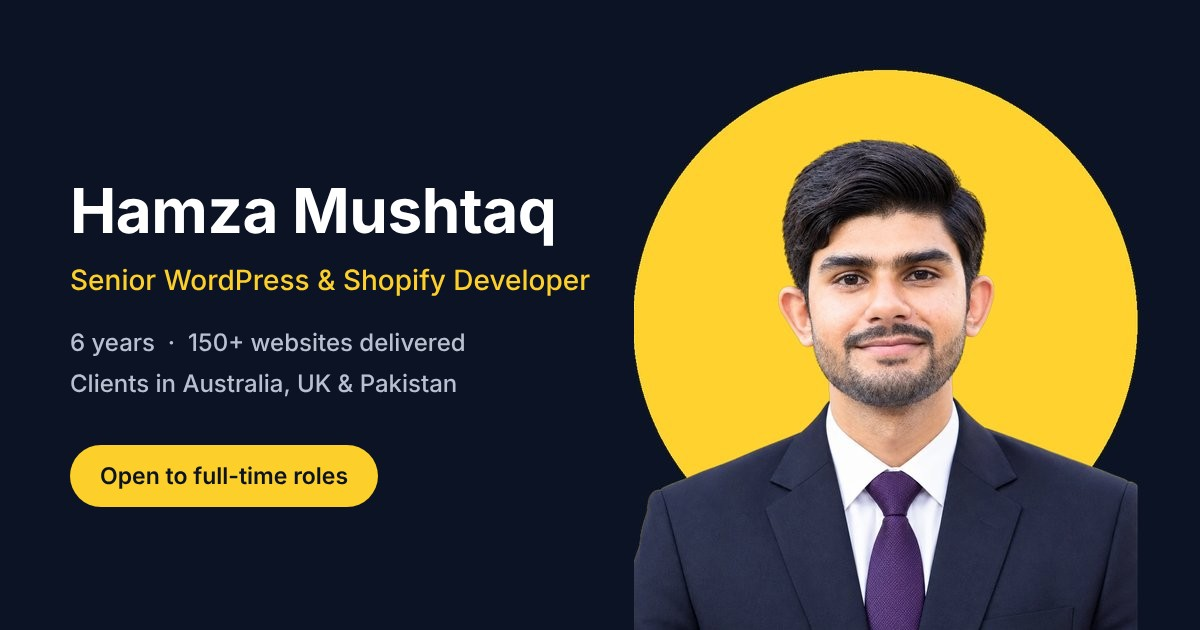
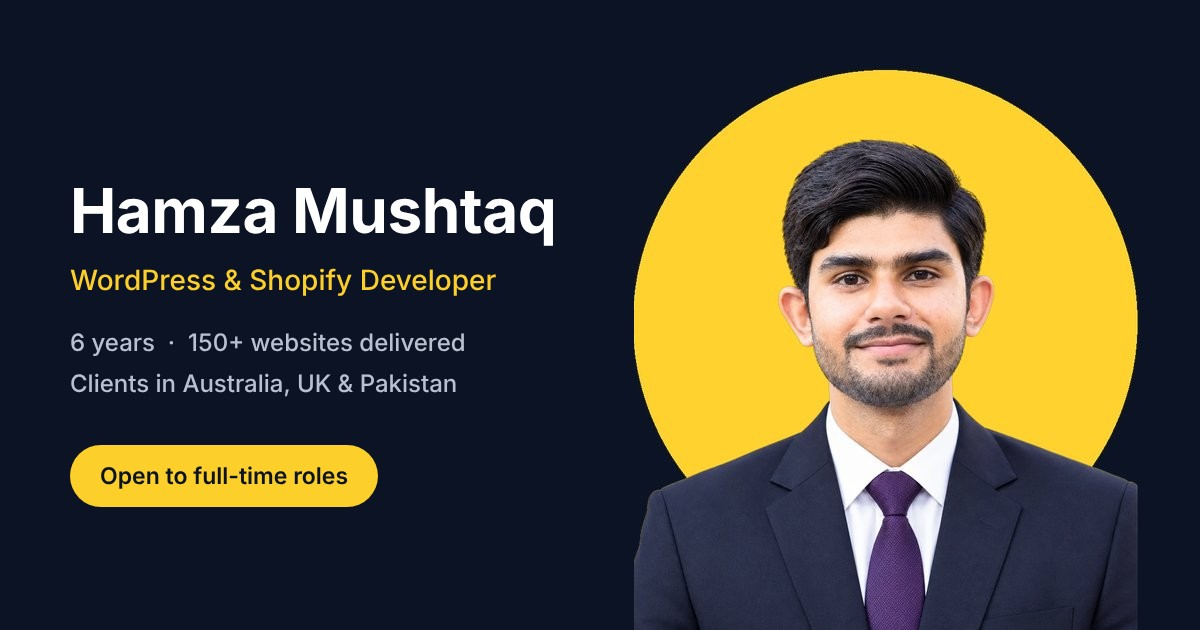
Remove 'Senior' from title, meta, hero, footer, schema and share image
Claude-Session: https://claude.ai/code/session_018FYhQwKR2udrmDeXMSJ7m5

Changed region(s): [[0.0617, 0.4222, 0.4933, 0.4825]]

diff --git a/index.html b/index.html
@@ -3,8 +3,8 @@
 <head>
 <meta charset="utf-8">
 <meta name="viewport" content="width=device-width, initial-scale=1">
-<title>Hamza Mushtaq | Senior WordPress & Shopify Developer</title>
-<meta name="description" content="Hamza Mushtaq is a Senior WordPress & Shopify developer in Islamabad with 6 years of experience and 150+ websites delivered. Open to full-time roles.">
+<title>Hamza Mushtaq | WordPress & Shopify Developer</title>
+<meta name="description" content="Hamza Mushtaq is a WordPress & Shopify developer in Islamabad with 6 years of experience and 150+ websites delivered. Open to full-time roles.">
 <meta name="author" content="Hamza Mushtaq">
 <link rel="canonical" href="https://hamzamushtaq-dev.github.io/">
 <meta name="google-site-verification" content="k11U1oFUgGxHjwd6RS69xaR4Mff1UDgWmx-Qb4VeeUU" />
@@ -12,17 +12,17 @@
 <meta property="og:type" content="website">
 <meta property="og:site_name" content="Hamza Mushtaq">
 <meta property="og:locale" content="en_US">
-<meta property="og:title" content="Hamza Mushtaq | Senior WordPress & Shopify Developer">
-<meta property="og:description" content="Senior WordPress & Shopify developer with 6 years of experience and 150+ websites and online stores delivered.">
+<meta property="og:title" content="Hamza Mushtaq | WordPress & Shopify Developer">
+<meta property="og:description" content="WordPress & Shopify developer with 6 years of experience and 150+ websites and online stores delivered.">
 <meta property="og:url" content="https://hamzamushtaq-dev.github.io/">
-<meta property="og:image" content="https://hamzamushtaq-dev.github.io/assets/og-image.jpg?v=3">
+<meta property="og:image" content="https://hamzamushtaq-dev.github.io/assets/og-image.jpg?v=4">
 <meta property="og:image:width" content="1200">
 <meta property="og:image:height" content="630">
-<meta property="og:image:alt" content="Hamza Mushtaq, Senior WordPress & Shopify Developer">
+<meta property="og:image:alt" content="Hamza Mushtaq, WordPress & Shopify Developer">
 <meta name="twitter:card" content="summary_large_image">
-<meta name="twitter:title" content="Hamza Mushtaq | Senior WordPress & Shopify Developer">
-<meta name="twitter:description" content="Senior WordPress & Shopify developer with 6 years of experience and 150+ websites delivered.">
-<meta name="twitter:image" content="https://hamzamushtaq-dev.github.io/assets/og-image.jpg?v=3">
+<meta name="twitter:title" content="Hamza Mushtaq | WordPress & Shopify Developer">
+<meta name="twitter:description" content="WordPress & Shopify developer with 6 years of experience and 150+ websites delivered.">
+<meta name="twitter:image" content="https://hamzamushtaq-dev.github.io/assets/og-image.jpg?v=4">
 <meta name="theme-color" content="#0B1324">
 <link rel="icon" href="favicon.ico?v=6" sizes="any">
 <link rel="icon" href="assets/favicon-32.png?v=6" type="image/png" sizes="32x32">
@@ -34,7 +34,7 @@
 <link rel="stylesheet" href="style.css">
 <script>try{var t=localStorage.getItem('theme');if(t)document.documentElement.dataset.theme=t;}catch(e){}</script>
 <script type="application/ld+json">
-{"@context":"https://schema.org","@type":"Person","name":"Hamza Mushtaq","jobTitle":"Senior WordPress & Shopify Developer","image":"https://hamzamushtaq-dev.github.io/assets/hamza-avatar.jpg","url":"https://hamzamushtaq-dev.github.io/","email":"mailto:hm136890@gmail.com","telephone":"+923125705808","address":{"@type":"PostalAddress","addressLocality":"Islamabad","addressCountry":"PK"},"worksFor":{"@type":"Organization","name":"CodeAge Pvt Ltd"},"sameAs":["https://www.linkedin.com/in/hamzamushtaq-dev"],"alumniOf":{"@type":"CollegeOrUniversity","name":"PMAS Arid Agriculture University, Rawalpindi"},"knowsAbout":["WordPress","Shopify","WooCommerce","Elementor","Divi","Figma to WordPress","Website Speed Optimization","Team Leadership"],"description":"Senior WordPress & Shopify developer with 6 years of experience and 150+ websites delivered."}
+{"@context":"https://schema.org","@type":"Person","name":"Hamza Mushtaq","jobTitle":"WordPress & Shopify Developer","image":"https://hamzamushtaq-dev.github.io/assets/hamza-avatar.jpg","url":"https://hamzamushtaq-dev.github.io/","email":"mailto:hm136890@gmail.com","telephone":"+923125705808","address":{"@type":"PostalAddress","addressLocality":"Islamabad","addressCountry":"PK"},"worksFor":{"@type":"Organization","name":"CodeAge Pvt Ltd"},"sameAs":["https://www.linkedin.com/in/hamzamushtaq-dev"],"alumniOf":{"@type":"CollegeOrUniversity","name":"PMAS Arid Agriculture University, Rawalpindi"},"knowsAbout":["WordPress","Shopify","WooCommerce","Elementor","Divi","Figma to WordPress","Website Speed Optimization","Team Leadership"],"description":"WordPress & Shopify developer with 6 years of experience and 150+ websites delivered."}
 </script>
 </head>
 <body>
@@ -95,7 +95,7 @@
       <div class="hero-copy reveal">
         <p class="status"><span class="pulse"></span> Open to full-time roles</p>
         <h1>I build WordPress &amp; Shopify websites from <span class="mark">scratch to launch</span>.</h1>
-        <p class="lead">I'm Hamza, a Senior WordPress &amp; Shopify Developer with 6 years of experience, currently leading a development team at CodeAge. I've built fast, fully responsive websites and online stores for clients in Australia, the UK and Pakistan.</p>
+        <p class="lead">I'm Hamza, a WordPress &amp; Shopify Developer with 6 years of experience, currently leading a development team at CodeAge. I've built fast, fully responsive websites and online stores for clients in Australia, the UK and Pakistan.</p>
         <div class="cta-row">
           <a href="#contact" class="btn btn-primary">Hire Me</a>
           <a href="assets/Hamza-Mushtaq-CV.pdf" class="btn btn-outline" target="_blank" rel="noopener"><svg class="ico"><use href="#i-download"/></svg>Download CV</a>
@@ -507,7 +507,7 @@
   <div class="wrap footer-inner">
     <div>
       <a href="#" class="logo js-top"><span class="logo-text">Hamza Mushtaq</span></a>
-      <p>Senior WordPress &amp; Shopify Developer. Open to full-time roles.</p>
+      <p>WordPress &amp; Shopify Developer. Open to full-time roles.</p>
     </div>
     <nav aria-label="Footer">
       <a href="#about">About</a><a href="#services">What I Do</a><a href="#work">Work</a><a href="assets/Hamza-Mushtaq-CV.pdf" target="_blank" rel="noopener">CV</a><a href="#contact">Contact</a>

diff --git a/README.md b/README.md
@@ -1,6 +1,6 @@
 # Hamza Mushtaq — Portfolio
 
-Personal portfolio website of Hamza Mushtaq, Senior WordPress & Shopify Developer.
+Personal portfolio website of Hamza Mushtaq, WordPress & Shopify Developer.
 
 Live: https://hamzamushtaq-dev.github.io/
 
